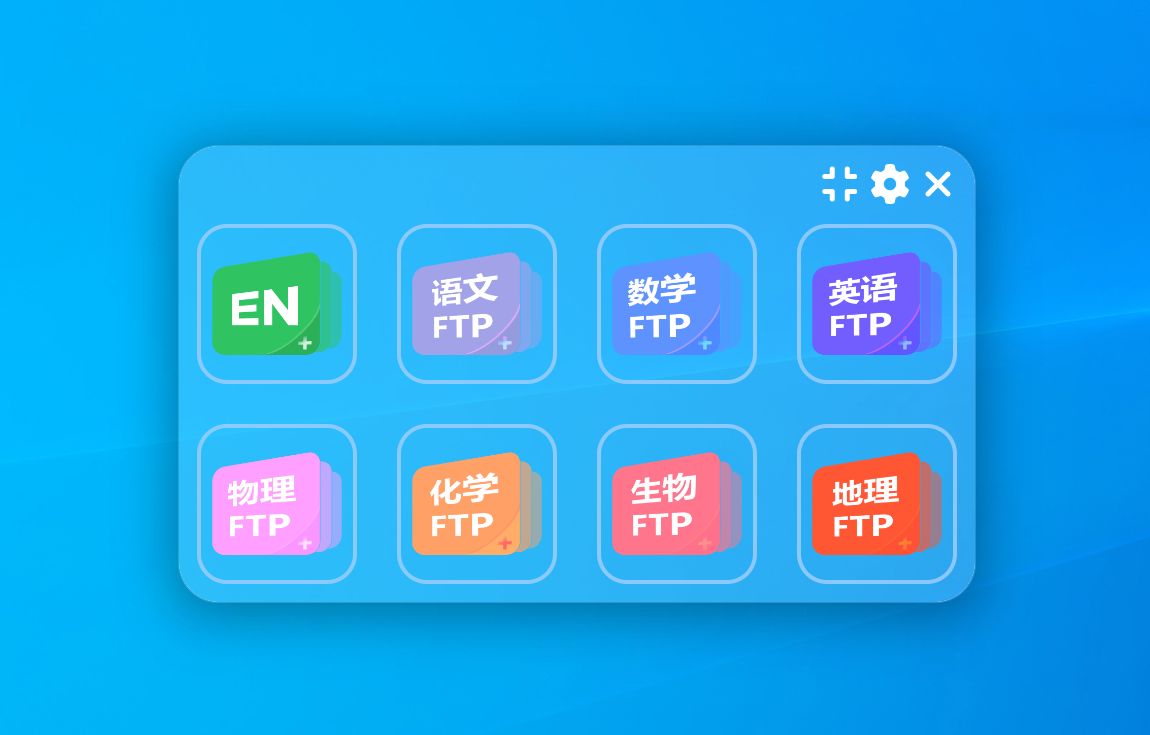
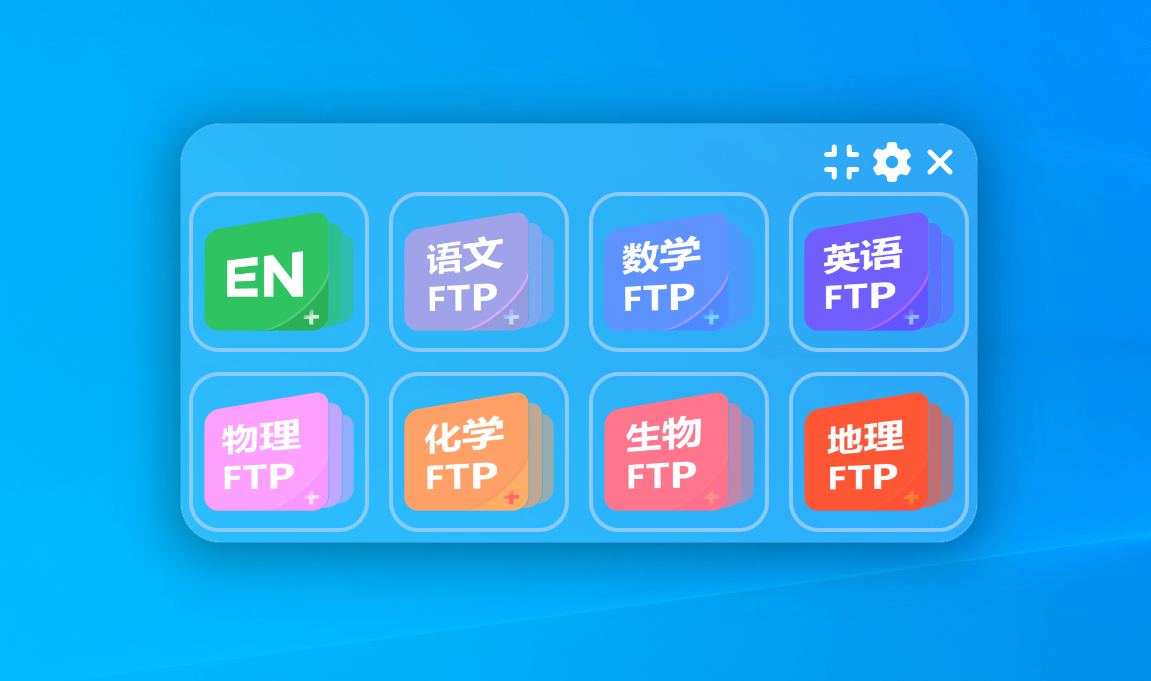
a few changes

Changed region(s): [[0.1522, 0.1542, 1.0, 0.8634], [0.9739, 0.4009, 1.0, 0.4317]]

diff --git a/src/styles.css b/src/styles.css
@@ -95,9 +95,9 @@ button:hover {
 }
 
 .launcher-icon {
-    width: 80px;
+    width: 90px;
     height: 80px;
-    margin: 10px;
+    margin: 5px;
     display: flex;
     align-items: center;
     justify-content: center;
@@ -108,6 +108,6 @@ button:hover {
 
 
 .launcher-icon img {
-    width: 65px;
-    height: 65px;
+    width: 75px;
+    height: 75px;
 }

diff --git a/src/main.js b/src/main.js
@@ -157,7 +157,7 @@ async function initConfig() {
 function createWindow() {
   mainWindow = new BrowserWindow({
     width: 400,
-    height: 230,
+    height: 211,
     frame: false, // 去掉窗口边框
     transparent: true, // 使窗口透明
     webPreferences: {

diff --git a/README.md b/README.md
@@ -1,11 +1,39 @@
 # 又一个启动器 | YAQL
-> *Yet Another Quick Launcher  <br> 还  另一个  桌面   启动   器*
+> *Yet Another Quick Launcher  <br> 还  另一个  快捷   启动   器*
 
 ![Version](https://img.shields.io/github/v/release/ChaoMixian/YetAnotherQuickLauncher.svg)
 ![Language](https://img.shields.io/badge/Language-JavaScript-yellow)
 ![BuildSuccess](https://img.shields.io/badge/build-success-green)
 
-**Yet Another Quick Launcher (YACT)** 是*又*一个桌面启动器，旨在帮助用户快速启动程序。它具有简单的界面和基本的功能，适合日常使用。
+**Yet Another Quick Launcher (YAQL)** 是*又*一个桌面快捷启动器，旨在帮助用户快速启动程序。它具有简单的界面和基本的功能，适合日常使用。
+
+![demo](demo.png)
+
+<div class="launcher-container">
+  <div class="launcher-icon"><img src="./assets/Seewo.png" alt="Icon 1"></div>
+  <div class="launcher-icon"><img src="./assets/Chinese.png" alt="Icon 2"></div>
+  <div class="launcher-icon"><img src="./assets/Math.png" alt="Icon 3"></div>
+  <div class="launcher-icon"><img src="./assets/English.png" alt="Icon 4"></div>
+  <div class="launcher-icon"><img src="./assets/Physics.png" alt="Icon 5"></div>
+  <div class="launcher-icon"><img src="./assets/Chemistry.png" alt="Icon 6"></div>
+  <div class="launcher-icon"><img src="./assets/Biology.png" alt="Icon 7"></div>
+  <div class="launcher-icon"><img src="./assets/Geography.png" alt="Icon 8"></div>
+</div>
+<style>
+.launcher-container {
+  display: grid;
+  grid-template-columns: repeat(4, 1fr); /* 四列 */
+  gap: 10px; /* 图标间距 */
+  justify-items: center; /* 水平居中 */
+  align-items: center;   /* 垂直居中 */
+}
+
+.launcher-icon img {
+  width: 80px; /* 你可以根据需要调整图标的大小 */
+  height: 80px;
+}
+</style>
+
 
 
 ## 功能|Features
@@ -13,13 +41,70 @@
 - **透明和自定义窗口**：提供半透明和可自定义的窗口，极简美观
 - **开机自启动**：可设置应用程序在系统启动时自动运行。
 - **托盘功能**：支持系统托盘图标，方便用户快速访问。
-- **窗口置顶**：可以将倒计时窗口置顶，确保其始终可见。
+- **桌面悬浮球**：可以将启动器缩小为悬浮球，确保不会遮挡。
 - **设置界面**：允许用户自定义设置，包括开机自启动选项。
 
 ## 安装|Install
 1. **前往[Release](https://github.com/ChaoMixian/YetAnotherQuickLauncher/releases)下载并安装**
 
 2. **享受~~屎山~~之旅**
+
+## 配置|Configure
+### Windows
+```C:\Users\<用户名>\AppData\Roaming\yet-another-quick-launcher\config.json```
+
+### Linux
+```C:\Users\<用户名>\AppData\Roaming\yet-another-quick-launcher\config.json```
+
+### 配置文件示例
+```json
+{
+	"version": "0.1.0",
+	"autoStart": true,
+	"app": [
+		{
+			"name": "希沃白板",
+			"icon": "../assets/Seewo.png",
+			"runCmd": "powershell Start-Process 'C:\\Program Files (x86)\\Seewo\\EasiNote5\\swenlauncher\\swenlauncher.exe'"
+		},
+		{
+			"name": "Chinese",
+			"icon": "../assets/Chinese.png",
+			"runCmd": "explorer.exe C:\\Windows"
+		},
+		{
+			"name": "Math",
+			"icon": "../assets/Math.png",
+			"runCmd": "explorer.exe C:\\Windows"
+		},
+		{
+			"name": "English",
+			"icon": "../assets/English.png",
+			"runCmd": "explorer.exe C:\\Windows"
+		},
+		{
+			"name": "Physics",
+			"icon": "../assets/Physics.png",
+			"runCmd": "explorer.exe C:\\Windows"
+		},
+		{
+			"name": "Chemistry",
+			"icon": "../assets/Chemistry.png",
+			"runCmd": "explorer.exe C:\\Windows"
+		},
+		{
+			"name": "Biology",
+			"icon": "../assets/Biology.png",
+			"runCmd": "explorer.exe C:\\Windows"
+		},
+		{
+			"name": "Geography",
+			"icon": "../assets/Geography.png",
+			"runCmd": "explorer.exe C:\\Windows"
+		}
+	]
+}
+```
 
 ## 构建|Build
 1. **克隆或下载代码**
@@ -41,11 +126,15 @@
    npm start
    ```
 
+4. **打包应用**
+
+   ```bash
+   npm run build
+   ```
 
 ## 截图|Screenshot
 
 ![demo](demo.png)
-![screenshot](screenshot.png)
 
 ## 贡献|Devotion
 
